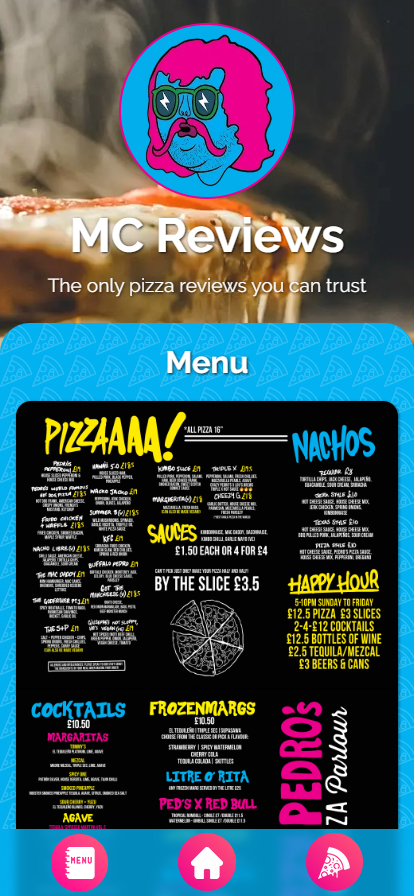
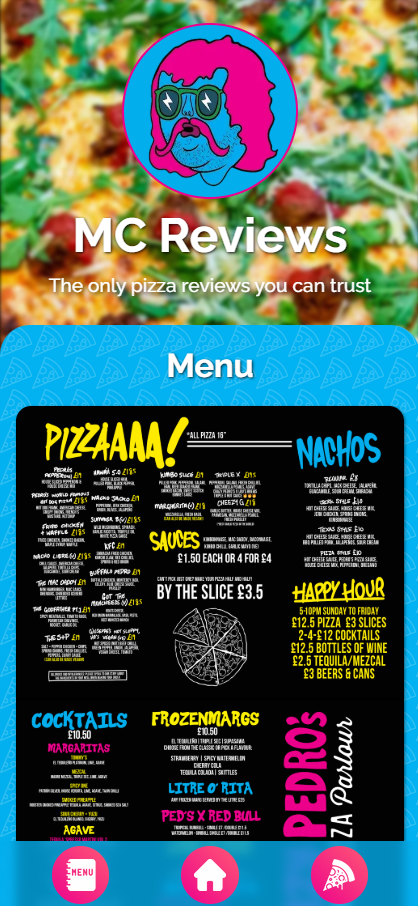
Updated background image and fixed home page pizza validation

diff --git a/src/utils/utils.js b/src/utils/utils.js
@@ -35,6 +35,7 @@ export async function addPizza(formData) {
       (name, description, toppings, rating, image_url)
       VALUES (${name}, ${description}, ${toppings}, ${rating}, ${imageID}
     )`;
+    revalidatePath(`/`);
     revalidatePath(`/pizzas`);
   } catch (error) {
     throw new Error("Could not add pizza");
@@ -79,6 +80,7 @@ export async function updatePizza(formData) {
       `;
     }
 
+    revalidatePath(`/`);
     revalidatePath(`/pizzas/${pizzaID}`);
   } catch (error) {
     throw new Error("Could not update pizza");

diff --git a/src/app/page.js b/src/app/page.js
@@ -4,11 +4,15 @@ import PizzaFact from "@/components/PizzaFact";
 import PizzaCard from "@/components/PizzaCard";
 import Instagram from "@/components/Instagram";
 import { fetchPizzas } from "@/utils/utils";
+import { revalidatePath } from "next/cache";
 import homeStyle from "@/styles/home.module.css";
 
 export default async function Home() {
   // Fetch all pizzas from database
   const pizzas = await fetchPizzas();
+
+  // Make sure recent data is displayed on page load
+  revalidatePath(`/`);
 
   return (
     <AnimatePage>

diff --git a/src/styles/globals.css b/src/styles/globals.css
@@ -15,6 +15,7 @@ body {
   width: 100%;
   height: 100%;
   z-index: -99;
+  filter: blur(2px);
 }
 
 .pedros-logo-container {
@@ -86,6 +87,10 @@ body {
   color: white;
   font-weight: bold;
   padding: 1.2rem 0.5rem;
+}
+.header-container .header-text {
+  font-weight: 500;
+  text-shadow: 2px 2px 4px rgba(0, 0, 0, 0.85);
 }
 
 .content-container {

diff --git a/src/components/Header.jsx b/src/components/Header.jsx
@@ -18,7 +18,7 @@ export default function Header() {
         </div>
       </AnimateLogo>
       <h1>MC Reviews</h1>
-      <h3>The only pizza reviews you can trust</h3>
+      <h3 className="header-text">The only pizza reviews you can trust</h3>
     </div>
   );
 }
